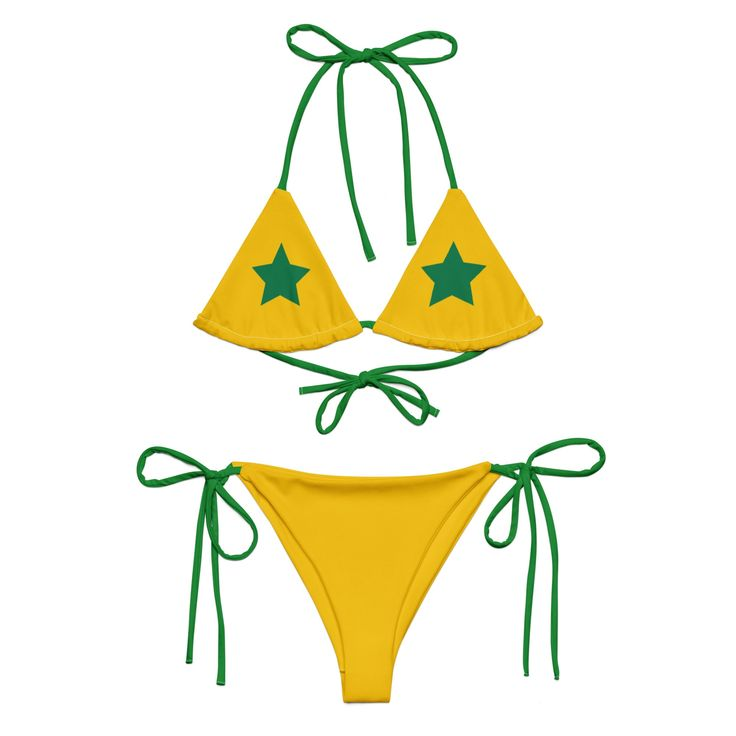
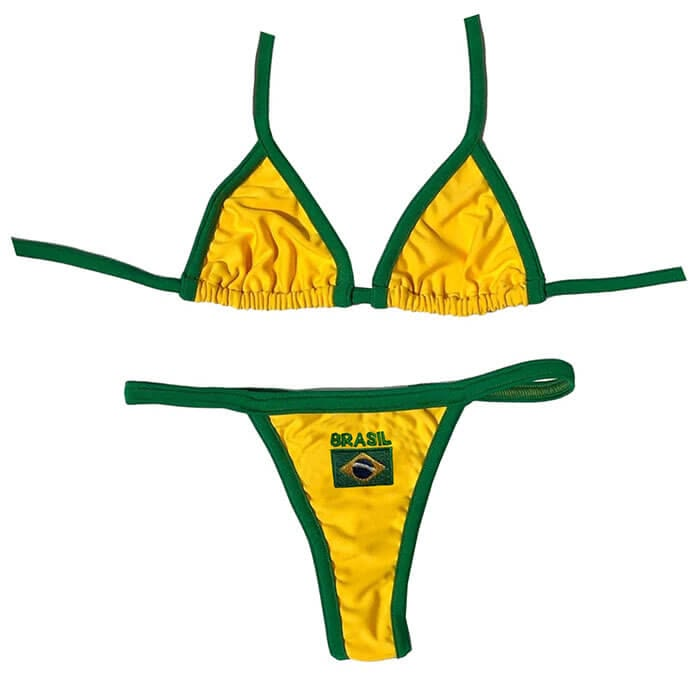
J

Changed region(s): [[0.0, 0.0, 0.99, 0.96]]

diff --git a/index.html b/index.html
@@ -104,7 +104,7 @@
                         <i class="fa-solid fa-heart"></i>
                     </div>
 
-                    <img src="src/images/collection2.jpg" class="collection-image" alt="">
+                    <img src="src/images/collection2.png" class="collection-image" alt="">
                     <h3 class="collection-title">Lorem Ipsum</h3>
                     <span class="collection-description">Lorem ipsum dolor sit amet consectetur adipisicing elit.</span>
 
